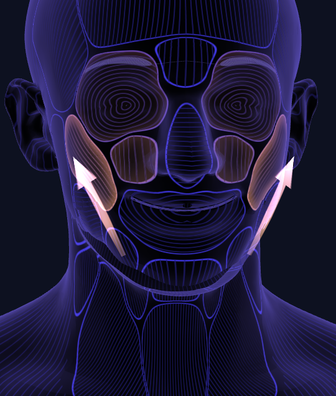
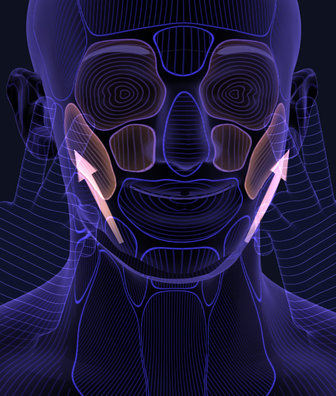
Wangen-Lift: stylised V hands at the crow's feet hold the skin down while the cheeks rise (design c6d9ca6)
Claude-Session: https://claude.ai/code/session_01VKNZJg7EmqarPhLXpg8Sv2

diff --git a/src/exercises.ts b/src/exercises.ts
@@ -1,5 +1,5 @@
 import type { FaceExercise } from '@anima-labs/design/engine'
-import type { GuideArrow } from '@anima-labs/design/figure'
+import type { GuideArrow, GuideHand } from '@anima-labs/design/figure'
 
 /** A face exercise plus the arrows that show which way its muscles pull (drawn while they work). */
 export type FayoExercise = FaceExercise & {
@@ -19,6 +19,8 @@ export type FayoExercise = FaceExercise & {
   focus: number
   arrows: GuideArrow[]
   arrowsFollow: string
+  /** Hands laid on the face where the exercise uses them (left one given, the right one mirrored); they pull as the arrows grow. */
+  hands?: GuideHand[]
   /** The skin around the working muscle moves a little with it (without lighting up): area -> share of `by`. */
   follow: { by: string; areas: Record<string, number> }
 }
@@ -168,9 +170,9 @@ export const CHEEK_LIFT: FayoExercise = {
   id: 'cheek-lift',
   title: 'Wangen-Lift',
   target: 'Wangenknochen',
-  blurb: 'Mit geschlossenen Lippen lächeln, die Wangen heben sich.',
+  blurb: 'Finger als V an die Augenwinkel, mit geschlossenen Lippen lächeln.',
   minutes: '2 Minuten',
-  lead: 'Trainiert die Lachmuskeln, die Mundwinkel und Wangen zu den Wangenknochen heben. Für eine vollere Wangenpartie.',
+  lead: 'Trainiert die Lachmuskeln, die Mundwinkel und Wangen zu den Wangenknochen heben. Die Finger halten dabei die Haut an den Krähenfüßen glatt. Für eine vollere Wangenpartie.',
   fine: '10 Wiederholungen. Kiefer locker lassen. In einer kleinen Studie wurden die Wangen nach 20 Wochen Training etwas voller.',
   card: 'cards/cheek-lift',
   get demo() {
@@ -178,11 +180,11 @@ export const CHEEK_LIFT: FayoExercise = {
   },
   focus: 1.56,
   intro: [
-    { label: 'Ankommen', cue: 'Fingerspitzen locker auf die Wangenknochen legen. Lippen geschlossen, Zähne nicht aufeinander.', durationMs: 5000, muscles: {} },
+    { label: 'Ankommen', cue: 'Zeige- und Mittelfinger als V an die Augenaußenwinkel legen, die übrigen Finger zur Faust. Lippen geschlossen.', durationMs: 5000, muscles: {} },
   ],
   steps: [
-    { label: 'Lächeln', cue: 'Mit geschlossenen Lippen breit lächeln, die Mundwinkel schräg zu den Wangenknochen ziehen.', durationMs: 2500, muscles: SMILE },
-    { label: 'Halten', cue: 'Halten. Die Wangen heben sich unter den Fingern, die Stirn bleibt glatt.', durationMs: 5000, muscles: SMILE, pulse: 0.12 },
+    { label: 'Lächeln', cue: 'Mit geschlossenen Lippen breit lächeln. Die Finger halten die Haut an den Augenwinkeln sanft nach unten.', durationMs: 2500, muscles: SMILE },
+    { label: 'Halten', cue: 'Halten. Die Wangen heben sich, unter den Fingern bleibt die Haut glatt.', durationMs: 5000, muscles: SMILE, pulse: 0.12 },
     { label: 'Lösen', cue: 'Langsam loslassen.', durationMs: 2500, muscles: {} },
     { label: 'Pause', cue: 'Durchatmen.', durationMs: 2000, muscles: {} },
   ],
@@ -195,6 +197,8 @@ export const CHEEK_LIFT: FayoExercise = {
     { from: [0.034, 1.51, 0.094], to: [0.062, 1.566, 0.082], bow: 0.01 },
   ],
   arrowsFollow: 'zygomaticusLeft',
+  // Index and middle finger in a V at the crow's feet hold the skin there down while the cheeks rise.
+  hands: [{ at: [0.057, 1.588, 0.06], normal: [0.6, 0, 0.8], fingers: [-0.35, 1, 0.15], pull: [0, -0.004, 0] }],
   // A smile lifts the nose wings and the chin a touch, and the jaw and temples firm a little.
   follow: {
     by: 'zygomaticusLeft',
@@ -205,8 +209,8 @@ export const CHEEK_LIFT: FayoExercise = {
 export const CHEEK_LIFT_DEMO: FaceExercise = {
   id: 'cheek-lift-demo',
   steps: [
-    { label: '1 · Anlegen', cue: 'Fingerspitzen auf die Wangenknochen, Lippen zu.', durationMs: 3200, muscles: {} },
-    { label: '2 · Lächeln', cue: 'Mundwinkel schräg nach oben zu den Wangenknochen.', durationMs: 2400, muscles: SMILE },
+    { label: '1 · Anlegen', cue: 'Finger als V an die Augenwinkel, Lippen zu.', durationMs: 3200, muscles: {} },
+    { label: '2 · Lächeln', cue: 'Lächeln, die Finger halten die Haut sanft nach unten.', durationMs: 2400, muscles: SMILE },
     { label: '3 · Halten', cue: 'Halten, die Wangen heben sich.', durationMs: 3200, muscles: SMILE, pulse: 0.12 },
     { label: '4 · Lösen', cue: 'Langsam loslassen.', durationMs: 2800, muscles: {} },
   ],

diff --git a/src/main.ts b/src/main.ts
@@ -3,7 +3,7 @@ import { GLTFLoader } from 'three/examples/jsm/loaders/GLTFLoader.js'
 import { MeshoptDecoder } from 'three/examples/jsm/libs/meshopt_decoder.module.js'
 import modelUrl from '@anima-labs/design/models/atmen-anatomy.glb?url'
 import { faceExerciseDuration, facePose } from '@anima-labs/design/engine'
-import { FACE_MOVES, FACE_PALETTES, faceActivation, faceMuscleMaterial, faceMuscleRig, guideArrows, makeStripeMaterials, muscleHead, STRIPE_PALETTES } from '@anima-labs/design/figure'
+import { FACE_MOVES, FACE_PALETTES, faceActivation, faceMuscleMaterial, faceMuscleRig, guideArrows, guideHands, makeStripeMaterials, muscleHead, STRIPE_PALETTES } from '@anima-labs/design/figure'
 import { EXERCISES, type FayoExercise } from './exercises'
 
 /**
@@ -62,6 +62,7 @@ scene.add(model)
 // Movements a little larger than life, so it is clear on a phone what to do.
 const rig = faceMuscleRig(activation, rigged, 1.3)
 let arrows: ReturnType<typeof guideArrows> | null = null
+let hands: ReturnType<typeof guideHands> | null = null
 const base = import.meta.env.BASE_URL
 const params = new URLSearchParams(location.search)
 let ex: FayoExercise = EXERCISES.find((e) => e.id === params.get('ex')) ?? EXERCISES[0]
@@ -84,6 +85,13 @@ function applyTheme() {
   }
   arrows = guideArrows(ex.arrows, dark ? { color: '#ffd6e4', color2: '#ffd8b0', glow: true } : { color: '#10bf9c', color2: '#3a8fe8' })
   scene.add(arrows.group)
+  if (hands) {
+    scene.remove(hands.group)
+    hands.dispose()
+  }
+  // The hands, where an exercise uses them, in the figure's own look (by day quiet grey, at night a glow).
+  hands = ex.hands ? guideHands(ex.hands, dark ? { line: '#b3a6ff', fill: '#3d3aa6', glow: true } : { line: '#9ea3b5', fill: '#ffffff', fillAlpha: 0.8 }) : null
+  if (hands) scene.add(hands.group)
   document.querySelectorAll<HTMLImageElement>('img[data-card]').forEach((img) => (img.src = `${img.dataset.card}-${dark ? 'dark' : 'light'}.png`))
 }
 applyTheme()
@@ -311,6 +319,7 @@ function tick(now: number) {
     const left = Math.ceil(((1 - pose.stepProgress) * pose.step.durationMs) / 1000)
     const grow = Math.min(1, (pose.muscles[ex.arrowsFollow] ?? 0) / peak())
     arrows?.update(grow, Math.min(1, grow * 3), t)
+    hands?.update(grow, 1)
     $('step').textContent = pose.step.label
     $('cue').textContent = pose.step.cue ?? ''
     $('count').textContent = paused ? 'Pause' : `${left} s`
@@ -329,10 +338,12 @@ function tick(now: number) {
     follow(pose.muscles)
     const grow = Math.min(1, (pose.muscles[ex.arrowsFollow] ?? 0) / peak())
     arrows?.update(grow, Math.min(1, grow * 3), t)
+    hands?.update(grow, 1)
     $('step').textContent = pose.step.label
     $('cue').textContent = pose.step.cue ?? ''
   } else {
     arrows?.update(0, 0, t)
+    hands?.update(0, 0)
   }
   frame(Math.sin(t * 0.35) * (state === 'run' ? 0.12 : 0.22), state === 'run' ? { top: 0.27, bottom: 0.77 } : { top: 0.22, bottom: 0.56 })
   renderer.clear()
